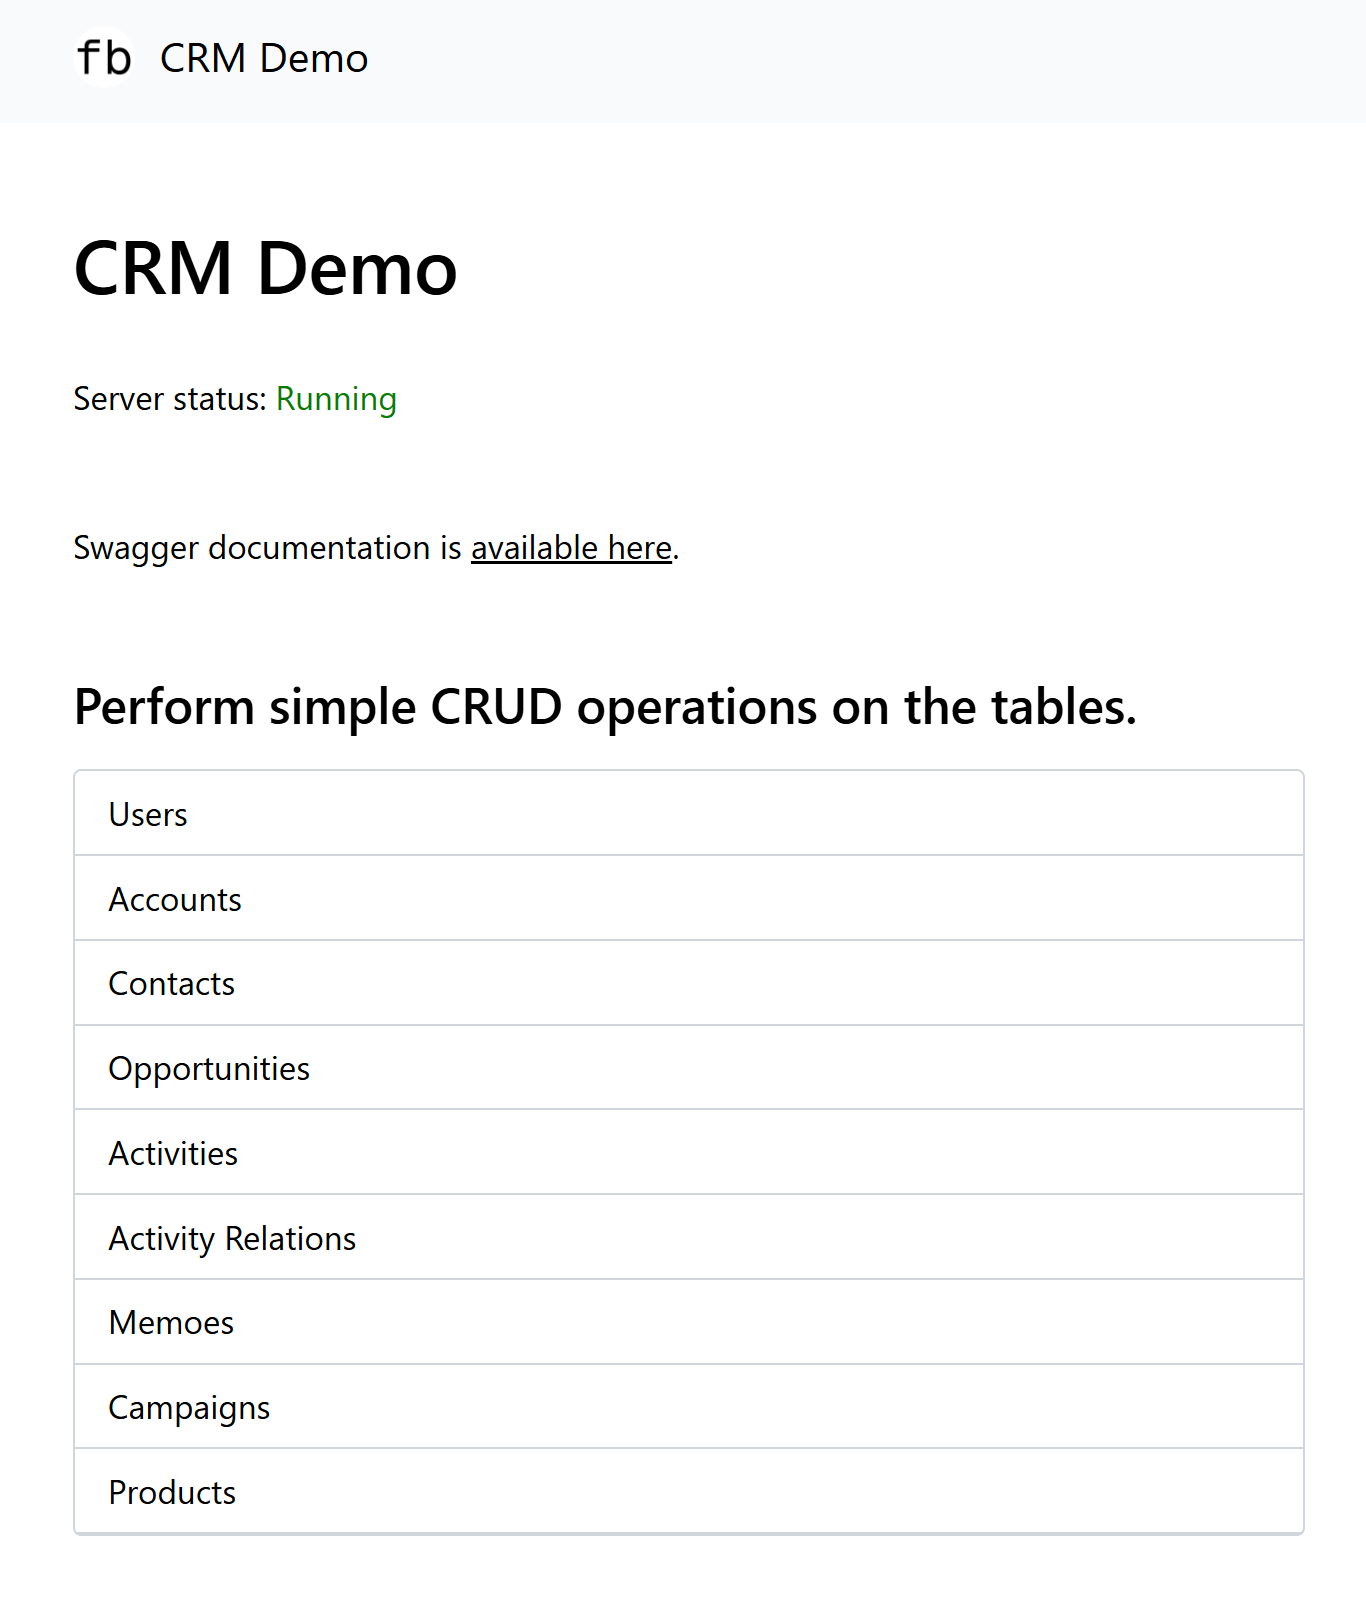
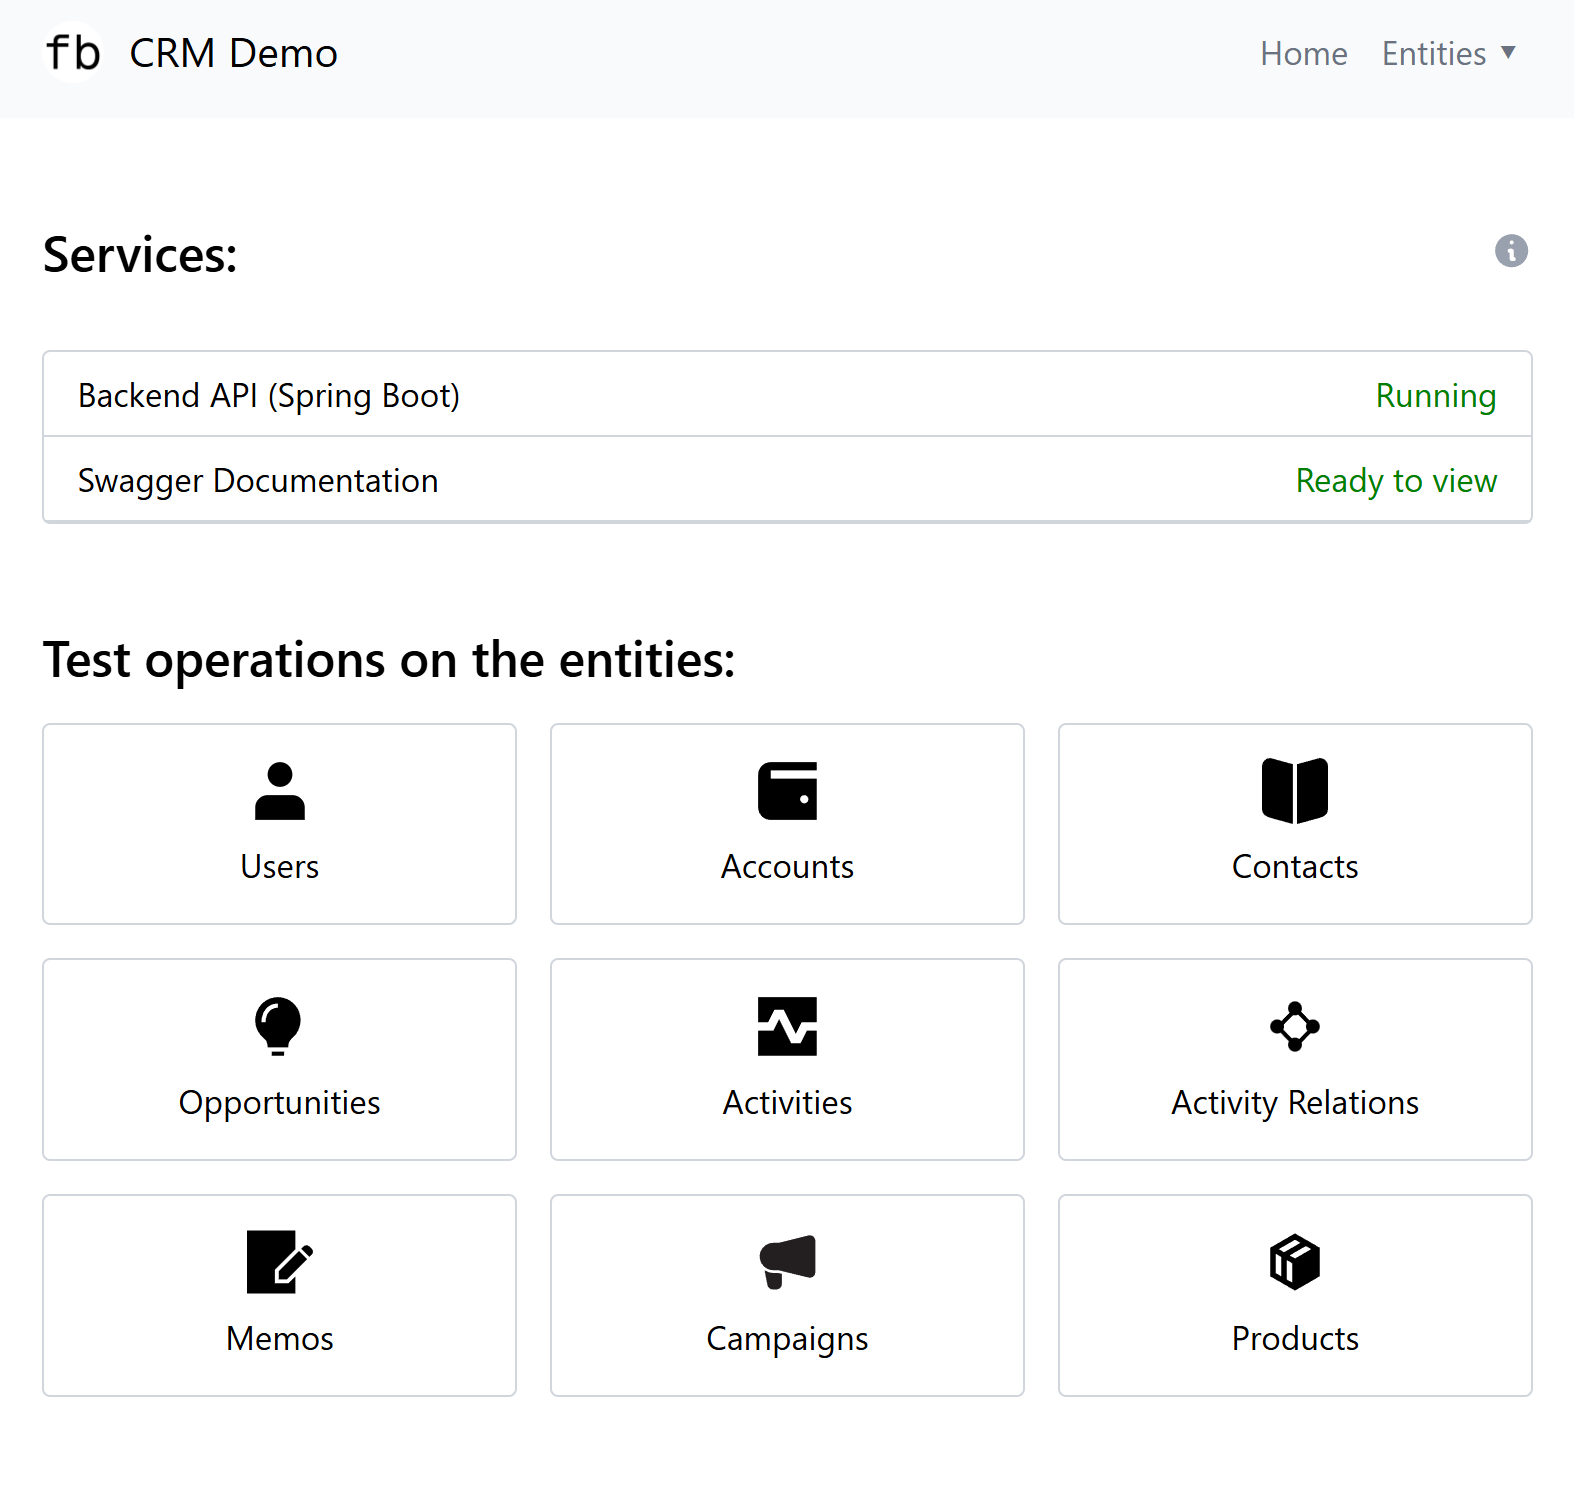
new crm demo pic

diff --git a/src/app/projects.ts b/src/app/projects.ts
@@ -56,20 +56,7 @@ export const projects = [
     githubUrl: "https://github.com/BachiDev/weather",
     liveUrl: "https://bachidev.github.io/weather/",
   },
-/*  {
-    name: "Chat Room",
-    type: "Backend",
-    description:
-      "A real time chat app with user authentication.",
-    image: "./placeholder.svg",
-    stack: [
-      { name: "Supabase", icon: "./supabase.svg" },
-      { name: "Next.js", icon: "./next.svg" },
-    ],
-    githubUrl: "#",
-    liveUrl: "#",
-  },*/
-    {
+  {
     name: "Connect 4",
     type: "Frontend",
     description:
